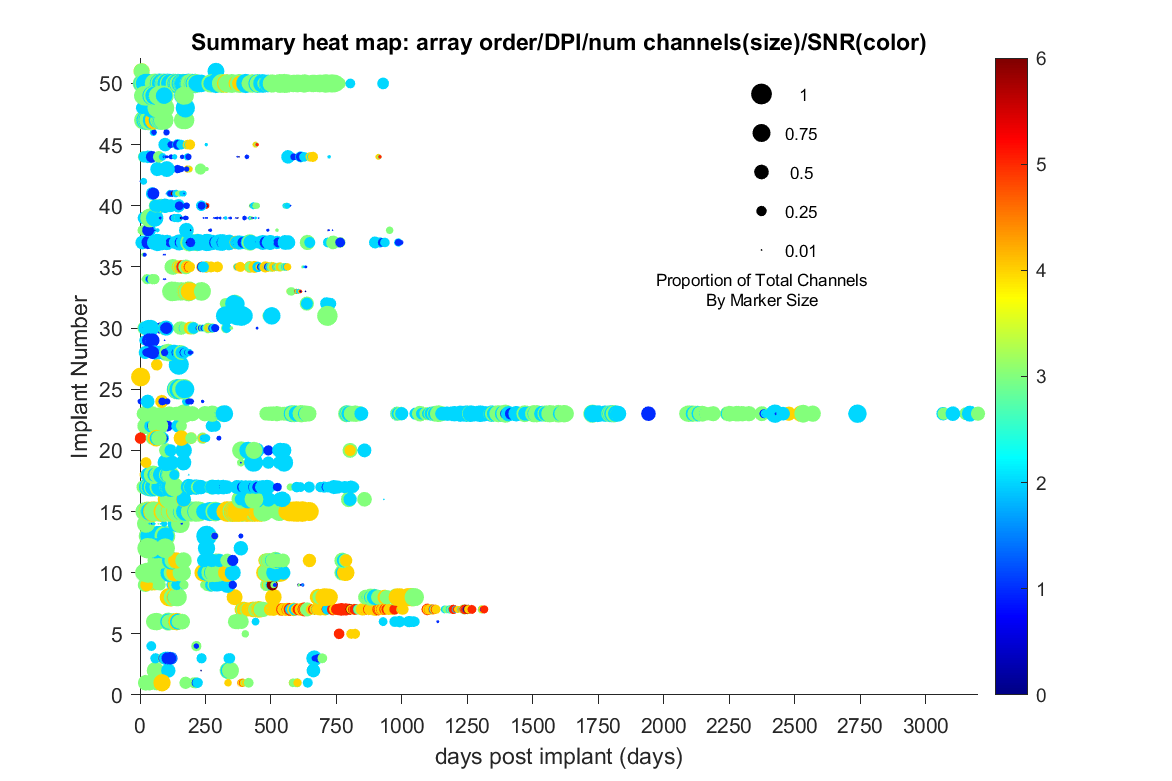
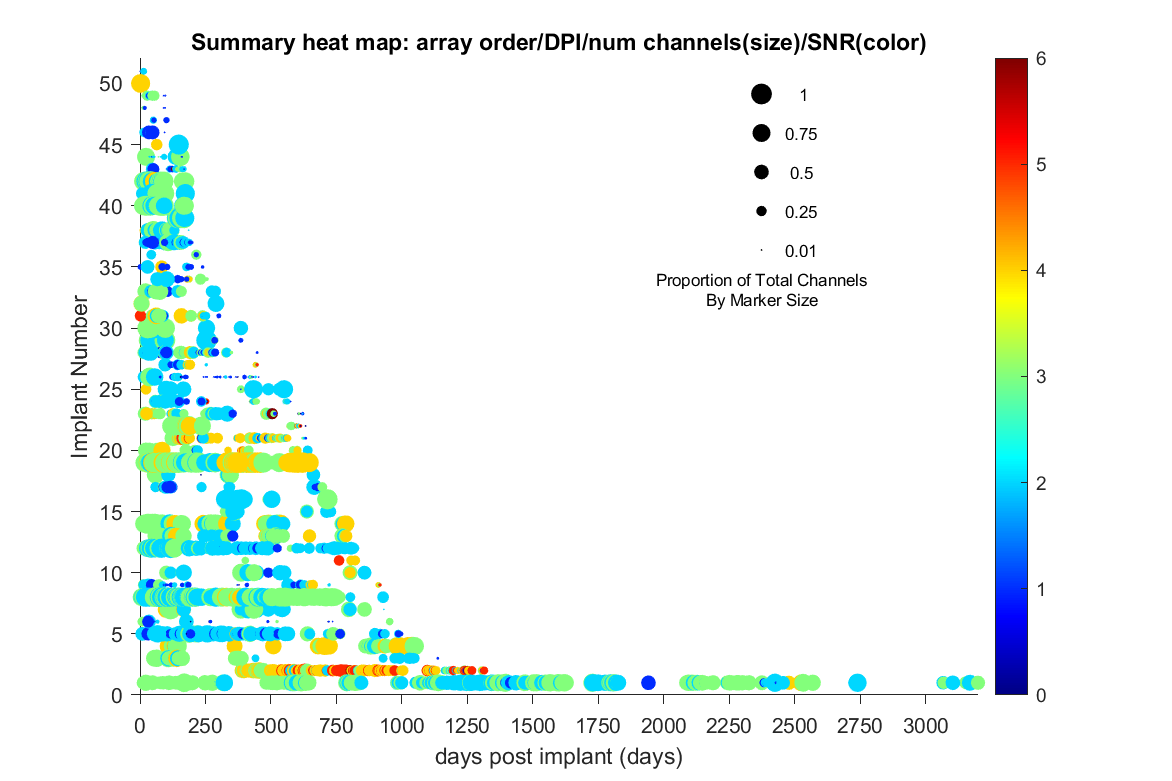
reordered rows by lifetime

diff --git a/code/paper_figures_code/figure_three.m b/code/paper_figures_code/figure_three.m
@@ -1,22 +1,57 @@
 function figure_three(array_data)
 %% Figure 3. Summary heat map with array number and Days Post Implant on y and x axes and \
-    % color denoting number of units or mean SNR. 
-    
+% color denoting number of units or mean SNR.
+
 % This is meant to be a summary figure of all the data; I'm not sure how
 % well it serves that purpose at the moment. The plot displays four
 % different variables: time, array number, SNR, and channel yield.
+
+
+array_names = unique({array_data.array_name});
+
+% Generating Lifetime Length Order
+for iArray = 1:numel(array_names)
+    file_count = 1;
+    % three columns:
+    %
+    % 1 - the array number in the list
+    lifetime_order(iArray,1) = iArray;
     
+    for iFile = 1:size(array_data,2)
+        if strcmp(array_data(iFile).array_name,array_names{iArray})
+            relative_days_temp(file_count) = array_data(iFile).relative_days;
+            file_count = file_count + 1;
+        end
+    end
+
+    % 2 - the maximum relative days of that array
     
-array_names = unique({array_data.array_name});    
-for iArray = 1:length(unique({array_data.array_name}))
-for iFile = 1:length(array_data)
-    if strcmp(array_data(iFile).array_name,array_names{iArray})
-        implant_order(iFile) = iArray;
+    lifetime_order(iArray,2) = max(relative_days_temp);
+    
+    clear relative_days_temp
+    clear file_count
+end
+
+% (order it by max days)
+
+[lifetime_order, sort_order] = sort(lifetime_order);
+
+lifetime_order(:,3) = sort_order(:,2);
+lifetime_order(:,1) = sort(lifetime_order(:,1),'descend');
+% 3 - numbered order after sorting
+%
+% (resort by array number)
+%
+
+for iArray = 1:numel(array_names)
+    for iFile = 1:length(array_data)
+        if strcmp(array_data(iFile).array_name,array_names{iArray})
+            implant_order(iFile,1) = lifetime_order((lifetime_order(:,3) == iArray),1);
+        end
     end
 end
-end
-    
-figure('name','Long-term, chronic array recordings','visible','off','color','w'); hold on  
+
+figure('name','Long-term, chronic array recordings','visible','off','color','w'); hold on
 scatter([array_data.relative_days],implant_order,...
     (([array_data.num_good_channels_corrected] ./ [array_data.total_num_of_channels])+.01)*100,...
     round([array_data.SNR_all_channels],0),'filled')
@@ -27,7 +62,7 @@ hold off
 % plotting the main figure
 hold(ax1, 'on');
 xlabel('days post implant (days)');
-ylabel('Implant Number');
+ylabel('Implant Order (By Lifetime Length)');
 title('Summary heat map: array order/DPI/num channels(size)/SNR(color)');
 xlim([0 max([array_data.relative_days])])
 xticks(0:250:3250)
